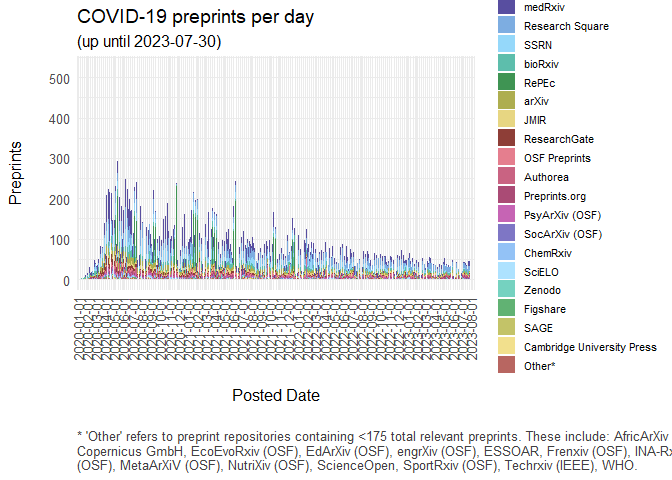
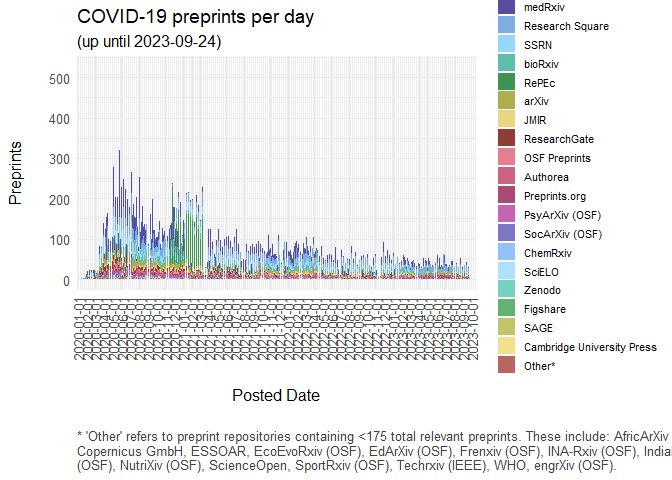
Update 2023-09-30 for preprints published up to 2023-09-24

diff --git a/covid19_preprints.md b/covid19_preprints.md
@@ -245,7 +245,7 @@ rm(cr_ssrn)
 An inspection of the published dates of SSRN preprints indicates some
 abnormalities, e.g. on 24th March 2020, more than 5000 SSRN preprints
 were published according to dates from Crossref - the next highest day
-only has \~250 published preprints. Manual inspection of a small number
+only has ~250 published preprints. Manual inspection of a small number
 suggests that the published date in Crossref does not correspond well to
 the actual published date according to the SSRN website. Thus, we can
 subset our set of SSRN preprints to those related to COVID-19 (to reduce
